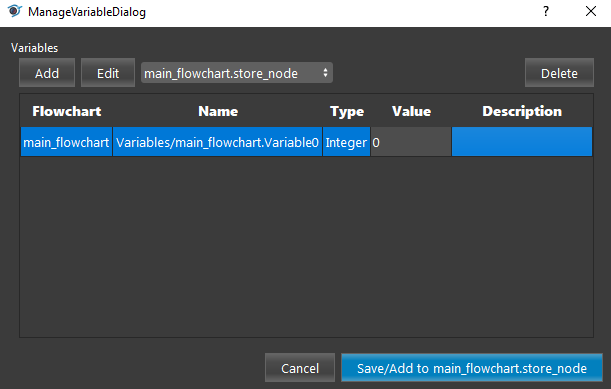
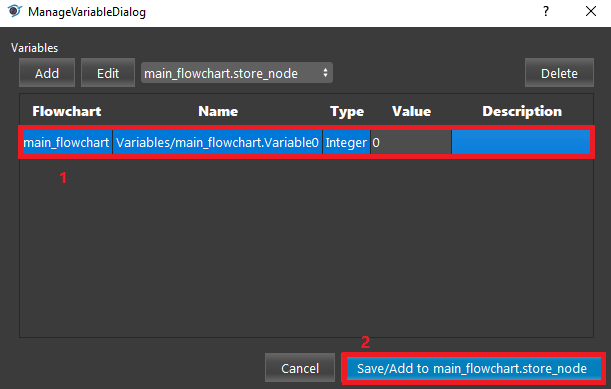
writer node update

Changed region(s): [[0.0311, 0.3085, 0.9951, 0.4627], [0.5597, 0.8638, 0.9951, 1.0]]

diff --git a/docs/nodes/Utility/writer.rst b/docs/nodes/Utility/writer.rst
@@ -6,12 +6,12 @@ Overview
 
 **Writer node** writes various types of data to files in disk.
 There are two modes available for writing data: From File, and From Numbered.
-If there are files with the same name when writing new files, the old files will be overwritten.
+If there are existing files with the same name when writing new files, the old files will be overwritten.
 
-.. image:: Images/util/writer_overview_1.png
+.. image:: Images/writer/writer_overview_1.png
    :align: center
 
-.. image:: Images/util/writer_overview_2.png
+.. image:: Images/writer/writer_overview_2.png
    :align: center
 
 |
@@ -22,9 +22,17 @@ Input
 +----------------------------------------+-------------------------------+---------------------------------------------------------------------------------+
 | Input                                  | Type                          | Description                                                                     |
 +========================================+===============================+=================================================================================+
-| Source Type                            | Point Cloud                   | The Point Cloud from scene (Camera, Reader etc.).                               |
+| Data Type                              | Int32                         | The file type to write to. (one of .png, .tif, .pcd, .ply, .bag)                |
 +----------------------------------------+-------------------------------+---------------------------------------------------------------------------------+
-| Data Type                              | Vector<Poses>                 | The results of poses. Usually from Mod Finder, Reconstruct etc.                 |
+| Image                                  | Image                         | The image to be written to the bag file.                                        |
++----------------------------------------+-------------------------------+---------------------------------------------------------------------------------+
+| Point Cloud                            | Cloud                         | The point cloud to be written to the bag file.                                  |
++----------------------------------------+-------------------------------+---------------------------------------------------------------------------------+
+| Depth Image                            | Image                         | The depth image to be written to the bag file.                                  |
++----------------------------------------+-------------------------------+---------------------------------------------------------------------------------+
+| Pose                                   | Pose                          | The pose to be written to the bag file.                                         |
++----------------------------------------+-------------------------------+---------------------------------------------------------------------------------+
+| Intrinsic                              | CameraIntrinsics              | The camera intrinsics to be written to the bag file.                            | 
 +----------------------------------------+-------------------------------+---------------------------------------------------------------------------------+
 
 |
@@ -32,14 +40,14 @@ Input
 Node Settings
 --------------
 
-.. image:: Images/util/writer_node_settings.png
+.. image:: Images/writer/writer_node_settings.png
    :align: center
 
 **Data Source**
 
 - Source Type (Default: From File):
-    From File: write data to one single file.
-    From Numbered: write data to multiple files. 
+    - From File: write data to one single file.
+    - From Numbered: write data to multiple files. 
 
 - Data Type (Default: RGB_IMAGE (.png)):
     Select from one of the four output file types:
@@ -50,13 +58,15 @@ Node Settings
         - BAG (.bag)
 
 - Write Data:
-    The data to write to files.
+    The data to be written to files.
 
 **Save to**
 
-- File Path: Available in From File mode.
+- File Path: 
+    Available in From File mode.
 
-- File Prefix (Default: "daoai_"):
+- File Prefix (Default: "daoai\_"):
+    The string to be appended to the start of the file name.
 
 - Start Index (Default: 0):
     The starting index of the file to be saved.
@@ -69,4 +79,22 @@ Node Settings
 Procedure to Use
 -----------------
 
-1. Insert a Camera node, and a Writer node.
+1. Insert Camera node and a Writer node.
+
+.. image:: Images/writer/writer_procedure_1.png
+   :scale: 80%
+
+2. Set up the Camera node, you can refer to :ref:`Camera Node`. Then, link a Write Data, and select a path. 
+
+.. image:: Images/writer/writer_procedure_2.png
+   :scale: 80%
+
+3. Run the node.
+
+.. image:: Images/writer/writer_procedure_3.png
+   :scale: 80%
+
+4. You can find the file in the file path.
+
+.. image:: Images/writer/writer_procedure_4.png
+   :scale: 100%

diff --git a/docs/nodes/Utility/thread.rst b/docs/nodes/Utility/thread.rst
@@ -7,7 +7,7 @@ Overview
 .. image:: Images/thread/threads.png
    :align: center
 
-Thread node is able to provide multi-threading-like execution flow for the workspace. Which allows you to execute more than 1 pipeline at the same time to increase the time complexity for your pipeline.
+**Thread node** is able to provide multi-threading-like execution flow for the workspace. Which allows you to execute more than 1 pipeline at the same time to increase the time complexity for your pipeline.
 
 Input and Output
 ------------------
@@ -50,8 +50,8 @@ Also, these 2 threads will both execute to the end. After thread kp_detection is
 And this is one of the mode for thread node. Thread node has 2 modes, this is regular mode, which will start a new thread and will not interfere with the main thread. Second mode is **Blocking mode**, this mode will require another thread node to 
 pause the process in main thread. This mode is more usually used since it will ensure the data integrity. 
 
-Blocking mode
--------------
+Blocking Mode
+~~~~~~~~~~~~~~
 
 .. image:: Images/thread/blocking_node.png
    :align: center
@@ -101,9 +101,24 @@ Question 2. Where would you place the second thread node? Why?
 
 	D. between Store node and Break node;
 
+|
+|
+|
+|
+|
+|
+|
+|
+|
+|
+|
+|
+|
+|
+|
 
-Answers for Exercises
-~~~~~~~~~~~~~~~~~~~~~~
+Answers for Exercise
+-------------------------
 
 Q1. B, C, D
 

diff --git a/docs/nodes/Utility/timer.rst b/docs/nodes/Utility/timer.rst
@@ -4,7 +4,7 @@ Timer Node
 Overview
 ----------
 
-The **Timer node** times the runtime from the first start timer to the second timer.
+The **Timer node** calculates the runtime from the first start timer to the second timer.
 
 .. image:: Images/timer/timer_overview_1.png
    :align: center
@@ -39,9 +39,10 @@ Node Settings
    :align: center
 
 - Timer Type (Default: Start Mode):
+    Select from Start Mode or Lap Mode.
 
 - Link Start Timer:
-    The Start Timer
+    The other Timer node used in calculating the time.
 
 |
 
@@ -58,7 +59,7 @@ Procedure to Use
 .. image:: Images/timer/timer_procedure_2.png
    :scale: 100%
 
-3. Click the second Timer node. Set the Timer Type to Lap Mode. Click the blue dot Link the currentTime output 
+3. Click the second Timer node. Set the Timer Type to Lap Mode. Click the blue dot and link the first Timer node's currentTime output.
 
 .. image:: Images/timer/timer_procedure_3_1.png
    :scale: 100%

diff --git a/docs/nodes/Utility/store.rst b/docs/nodes/Utility/store.rst
@@ -20,6 +20,9 @@ Node Settings
 .. image:: images/store/store_node_settings.png
    :align: center
 
+- Value to Set:
+    The value to set the variable to. Can be entered as an expression.
+
 |
 
 Procedure to Use

diff --git a/docs/nodes/Utility/transformation_tree.rst b/docs/nodes/Utility/transformation_tree.rst
@@ -167,7 +167,7 @@ What output from the transformation tree can help you correct this error?
 |
 |
 
-Answers for Exercises
+Answers for Exercise
 ----------------------
 
 Scenario 1
